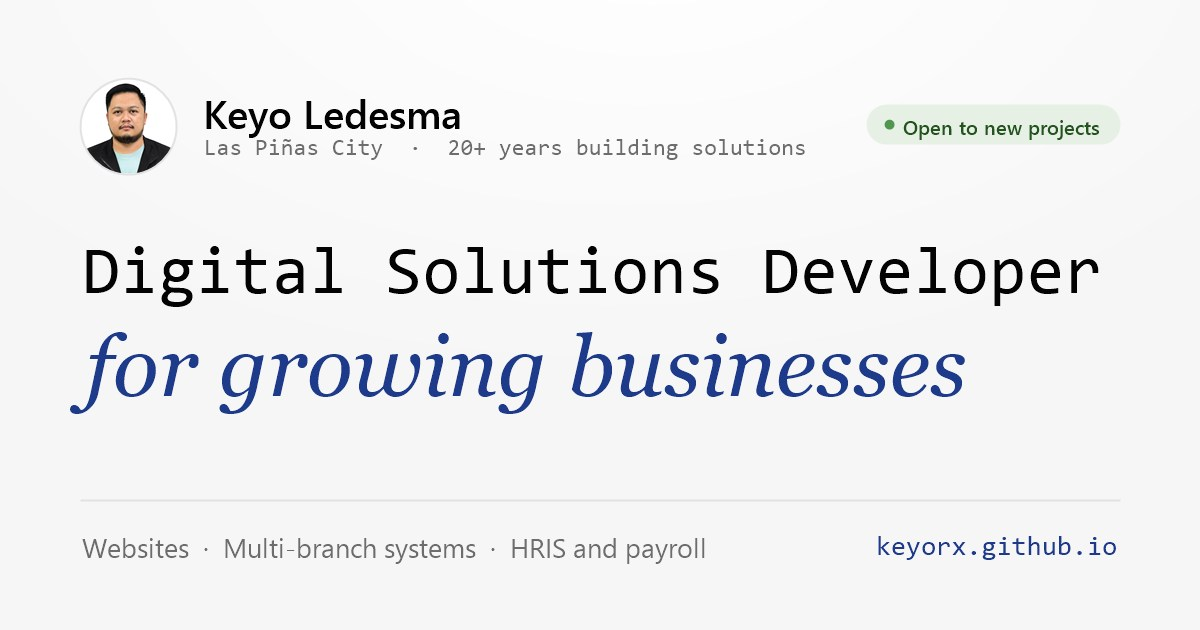
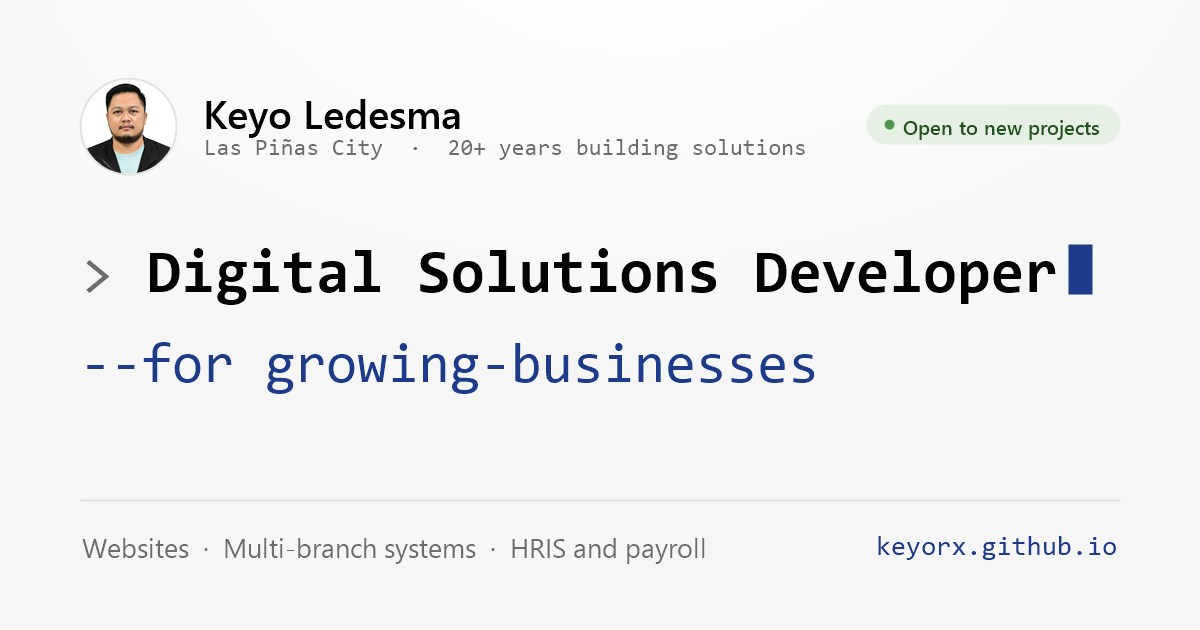
Switch to a terminal style with Fira Code and Fira Sans
- Fira Code for headings, labels and code accents; Fira Sans for body
- Hero headline as a terminal prompt with a blinking cursor
- "> " prompt on section headings
- Share card headline in the same style

Changed region(s): [[0.0617, 0.3921, 0.925, 0.4825], [0.0617, 0.5127, 0.8017, 0.6635]]

diff --git a/css/style.css b/css/style.css
@@ -10,9 +10,9 @@
   --shadow: 0 1px 2px rgba(0,0,0,.04), 0 12px 32px rgba(0,0,0,.06);
   --glow: radial-gradient(60% 50% at 50% 0%, rgba(0,0,0,.05), transparent 70%);
   --panel-bg: #030303; --panel-text: #f2f2f2; --panel-muted: #a4a4a4; --panel-line: #232326; --panel-accent: #8ea8ef;
-  --serif: "Playfair Display", Georgia, serif;
-  --mono: "DM Mono", ui-monospace, monospace;
-  --sans: "Inter", system-ui, sans-serif;
+  --serif: "Fira Code", ui-monospace, monospace;
+  --mono: "Fira Code", ui-monospace, monospace;
+  --sans: "Fira Sans", system-ui, sans-serif;
 }
 [data-mode="dark"] {
   --bg: #050505; --surface: #0f0f10; --surface-2: #18181a;
@@ -34,7 +34,7 @@ img { display: block; max-width: 100%; }
 section { padding: 72px 0; }
 h1, h2, h3 { margin: 0; font-weight: 500; }
 .head { text-align: center; margin-bottom: 36px; }
-.head h2 { font-family: var(--serif); font-style: italic; font-size: clamp(30px, 4vw, 42px); }
+.head h2 { font-family: var(--serif); font-weight: 600; letter-spacing: -0.03em; font-size: clamp(30px, 4vw, 42px); }
 .head p { margin: 6px 0 0; color: var(--muted); }
 .me { border-radius: 50%; object-fit: cover; background: var(--surface-2); flex: none; box-shadow: 0 0 0 2px var(--surface), 0 0 0 3px color-mix(in srgb, var(--accent) 35%, transparent); }
 
@@ -63,8 +63,8 @@ h1, h2, h3 { margin: 0; font-weight: 500; }
 .hero { text-align: center; padding: 150px 0 64px; }
 .hero-top { display: inline-flex; align-items: center; gap: 12px; margin-bottom: 28px; }
 .hero h1 { line-height: 1.12; }
-.hero .l1 { display: block; font-family: var(--mono); font-weight: 400; font-size: clamp(30px, 5vw, 54px); letter-spacing: -0.02em; }
-.hero .l2 { display: block; font-family: var(--serif); font-style: italic; font-size: clamp(34px, 5.6vw, 62px); color: var(--accent); }
+.hero .l1 { display: block; font-family: var(--mono); font-weight: 600; font-size: clamp(28px, 4.8vw, 52px); letter-spacing: -0.03em; }
+.hero .l2 { display: block; font-family: var(--mono); font-weight: 400; font-size: clamp(24px, 4vw, 44px); letter-spacing: -0.02em; color: var(--accent); margin-top: 6px; }
 .hero .sub { font-size: 16px; color: var(--muted); max-width: 540px; margin: 20px auto 0; }
 .hero .meta { font-family: var(--mono); font-size: 12px; color: var(--faint); margin-top: 14px; }
 .actions { display: flex; justify-content: center; flex-wrap: wrap; gap: 10px; margin-top: 28px; }
@@ -80,7 +80,7 @@ h1, h2, h3 { margin: 0; font-weight: 500; }
 .projects.three { grid-template-columns: repeat(3, 1fr); }
 .group-head { display: flex; align-items: baseline; gap: 12px; margin: 48px 0 16px; padding-bottom: 10px; border-bottom: 1px solid var(--line); }
 .group-head.first { margin-top: 0; }
-.group-head h3 { font-family: var(--serif); font-style: italic; font-size: 24px; }
+.group-head h3 { font-family: var(--serif); font-weight: 600; letter-spacing: -0.02em; font-size: 24px; }
 .group-head span { font: 11px var(--mono); letter-spacing: .06em; text-transform: uppercase; color: var(--accent); }
 .team-grid { display: grid; grid-template-columns: repeat(3, 1fr); gap: 14px; }
 .team-card { display: flex; gap: 14px; align-items: flex-start; background: var(--surface); border: 1px solid var(--line); border-radius: 16px; padding: 20px; box-shadow: var(--shadow); }
@@ -103,7 +103,7 @@ h1, h2, h3 { margin: 0; font-weight: 500; }
 .chips button[aria-pressed="true"] { background: var(--accent); border-color: var(--accent); color: var(--on-accent); }
 .ind-panel { max-width: 620px; margin: 22px auto 0; padding: 20px 24px; border-radius: 18px; background: var(--surface); border: 1px solid var(--line); box-shadow: var(--shadow); text-align: left; }
 .ind-hint { margin: 0; text-align: center; color: var(--faint); font: 13px var(--mono); }
-.ind-panel h4 { margin: 0 0 10px; font-family: var(--serif); font-style: italic; font-weight: 500; font-size: 22px; }
+.ind-panel h4 { margin: 0 0 10px; font-family: var(--serif); font-weight: 600; letter-spacing: -0.02em; font-size: 22px; }
 .ind-panel ul { list-style: none; margin: 0; padding: 0; display: grid; gap: 7px; }
 .ind-panel li { display: flex; gap: 10px; align-items: baseline; }
 .ind-panel li::before { content: ""; flex: none; width: 6px; height: 6px; background: var(--accent); transform: translateY(-2px); }
@@ -176,7 +176,7 @@ h1, h2, h3 { margin: 0; font-weight: 500; }
 .duo { display: grid; grid-template-columns: 1fr 1fr; gap: 18px; }
 .role-card { background: var(--surface); border: 1px solid var(--line); border-radius: 18px; padding: 26px; box-shadow: var(--shadow); }
 .role-card .ic { width: 38px; height: 38px; border-radius: 10px; border: 1px solid var(--line); display: grid; place-items: center; color: var(--accent); margin-bottom: 14px; }
-.role-card h3 { font-family: var(--serif); font-style: italic; font-size: 26px; }
+.role-card h3 { font-family: var(--serif); font-weight: 600; letter-spacing: -0.02em; font-size: 26px; }
 .role-card > p { margin: 4px 0 16px; color: var(--muted); }
 .role-card ul { list-style: none; margin: 0; padding: 0; display: grid; gap: 7px; }
 .role-card li { display: flex; gap: 10px; align-items: baseline; font-size: 14px; }
@@ -191,7 +191,7 @@ h1, h2, h3 { margin: 0; font-weight: 500; }
 .step .free { display: inline-block; margin-top: 10px; font: 11px var(--mono); color: var(--green); }
 .plan { margin-top: 18px; background: var(--surface); color: var(--text); border: 1px solid var(--line); box-shadow: var(--shadow); border-radius: 22px; padding: 30px; display: grid; grid-template-columns: 1fr 1.3fr; gap: 20px 32px; }
 .plan .tag { font: 11px var(--mono); letter-spacing: .06em; text-transform: uppercase; color: var(--accent); }
-.plan h3 { font-family: var(--serif); font-style: italic; font-size: 28px; margin: 6px 0 8px; line-height: 1.2; }
+.plan h3 { font-family: var(--serif); font-weight: 600; letter-spacing: -0.02em; font-size: 28px; margin: 6px 0 8px; line-height: 1.2; }
 .plan p { margin: 0; color: var(--muted); }
 .plan-cols { display: grid; grid-template-columns: 1fr 1fr; gap: 16px; }
 .plan-cols h4 { margin: 0 0 10px; font: 11px var(--mono); letter-spacing: .06em; text-transform: uppercase; color: var(--faint); }
@@ -203,7 +203,7 @@ h1, h2, h3 { margin: 0; font-weight: 500; }
 
 /* Contact */
 .contact { background: var(--panel-bg); color: var(--panel-text); border-radius: 26px; padding: 56px 32px 28px; text-align: center; }
-.contact h2 { font-family: var(--serif); font-style: italic; font-size: clamp(36px, 5vw, 54px); margin: 14px 0 10px; }
+.contact h2 { font-family: var(--serif); font-weight: 600; letter-spacing: -0.03em; font-size: clamp(36px, 5vw, 54px); margin: 14px 0 10px; }
 .contact .sub { color: var(--panel-muted); max-width: 540px; margin: 0 auto 24px; }
 .contact .badge { background: rgba(81,150,79,.18); color: #8bd389; }
 [data-mode="dark"] .contact .badge { color: #245320; background: rgba(81,150,79,.18); }
@@ -332,3 +332,10 @@ footer { height: 40px; }
 .shot-url { position: absolute; left: 12px; bottom: 12px; font: 10.5px var(--mono); padding: 4px 10px; border-radius: 999px; background: rgba(0,0,0,.6); color: #fff; backdrop-filter: blur(6px); -webkit-backdrop-filter: blur(6px); }
 .shot-url::before { content: ""; display: inline-block; width: 6px; height: 6px; border-radius: 50%; background: var(--b-accent, #fff); margin-right: 7px; vertical-align: 1px; }
 .proj[class*="brand-"] .shot.photo::after { content: ""; position: absolute; left: 0; right: 0; bottom: 0; height: 3px; background: var(--b-accent); }
+
+/* Terminal style: prompt and blinking cursor in the hero, prompt on section headings */
+.hero .prompt { color: var(--faint); font-weight: 400; }
+.cursor { display: inline-block; width: .55em; height: .95em; margin-left: .12em; vertical-align: -0.1em; background: var(--accent); animation: blink 1.05s steps(1) infinite; }
+@keyframes blink { 50% { opacity: 0; } }
+.head h2::before { content: "> "; color: var(--accent); font-weight: 400; }
+@media (prefers-reduced-motion: reduce) { .cursor { animation: none; } }

diff --git a/index.html b/index.html
@@ -23,7 +23,7 @@
   </script>
   <link rel="preconnect" href="https://fonts.googleapis.com">
   <link rel="preconnect" href="https://fonts.gstatic.com" crossorigin>
-  <link href="https://fonts.googleapis.com/css2?family=Inter:wght@400;500;600&family=DM+Mono:wght@400;500&family=Playfair+Display:ital,wght@1,500;1,600&display=swap" rel="stylesheet">
+  <link href="https://fonts.googleapis.com/css2?family=Fira+Code:wght@400;500;600&family=Fira+Sans:wght@400;500;600&display=swap" rel="stylesheet">
   <link rel="stylesheet" href="css/style.css">
 </head>
 <body>
@@ -42,7 +42,7 @@
           <img class="me" src="assets/img/keyo.jpg" alt="Photo of Keyo Ledesma" width="52" height="52">
           <span class="badge">Open to new projects</span>
         </div>
-        <h1><span class="l1">Digital Solutions Developer</span><span class="l2">for growing businesses</span></h1>
+        <h1 aria-label="Digital Solutions Developer for growing businesses"><span class="l1"><span class="prompt" aria-hidden="true">&gt;</span> Digital Solutions Developer<span class="cursor" aria-hidden="true"></span></span><span class="l2" aria-hidden="true">--for growing-businesses</span></h1>
         <p class="sub">I build websites and business systems that replace paper, spreadsheets and old software, tailor-fit to how your business actually works.</p>
         <p class="meta">20+ years building solutions · Las Piñas City, Metro Manila</p>
         <div class="actions">
